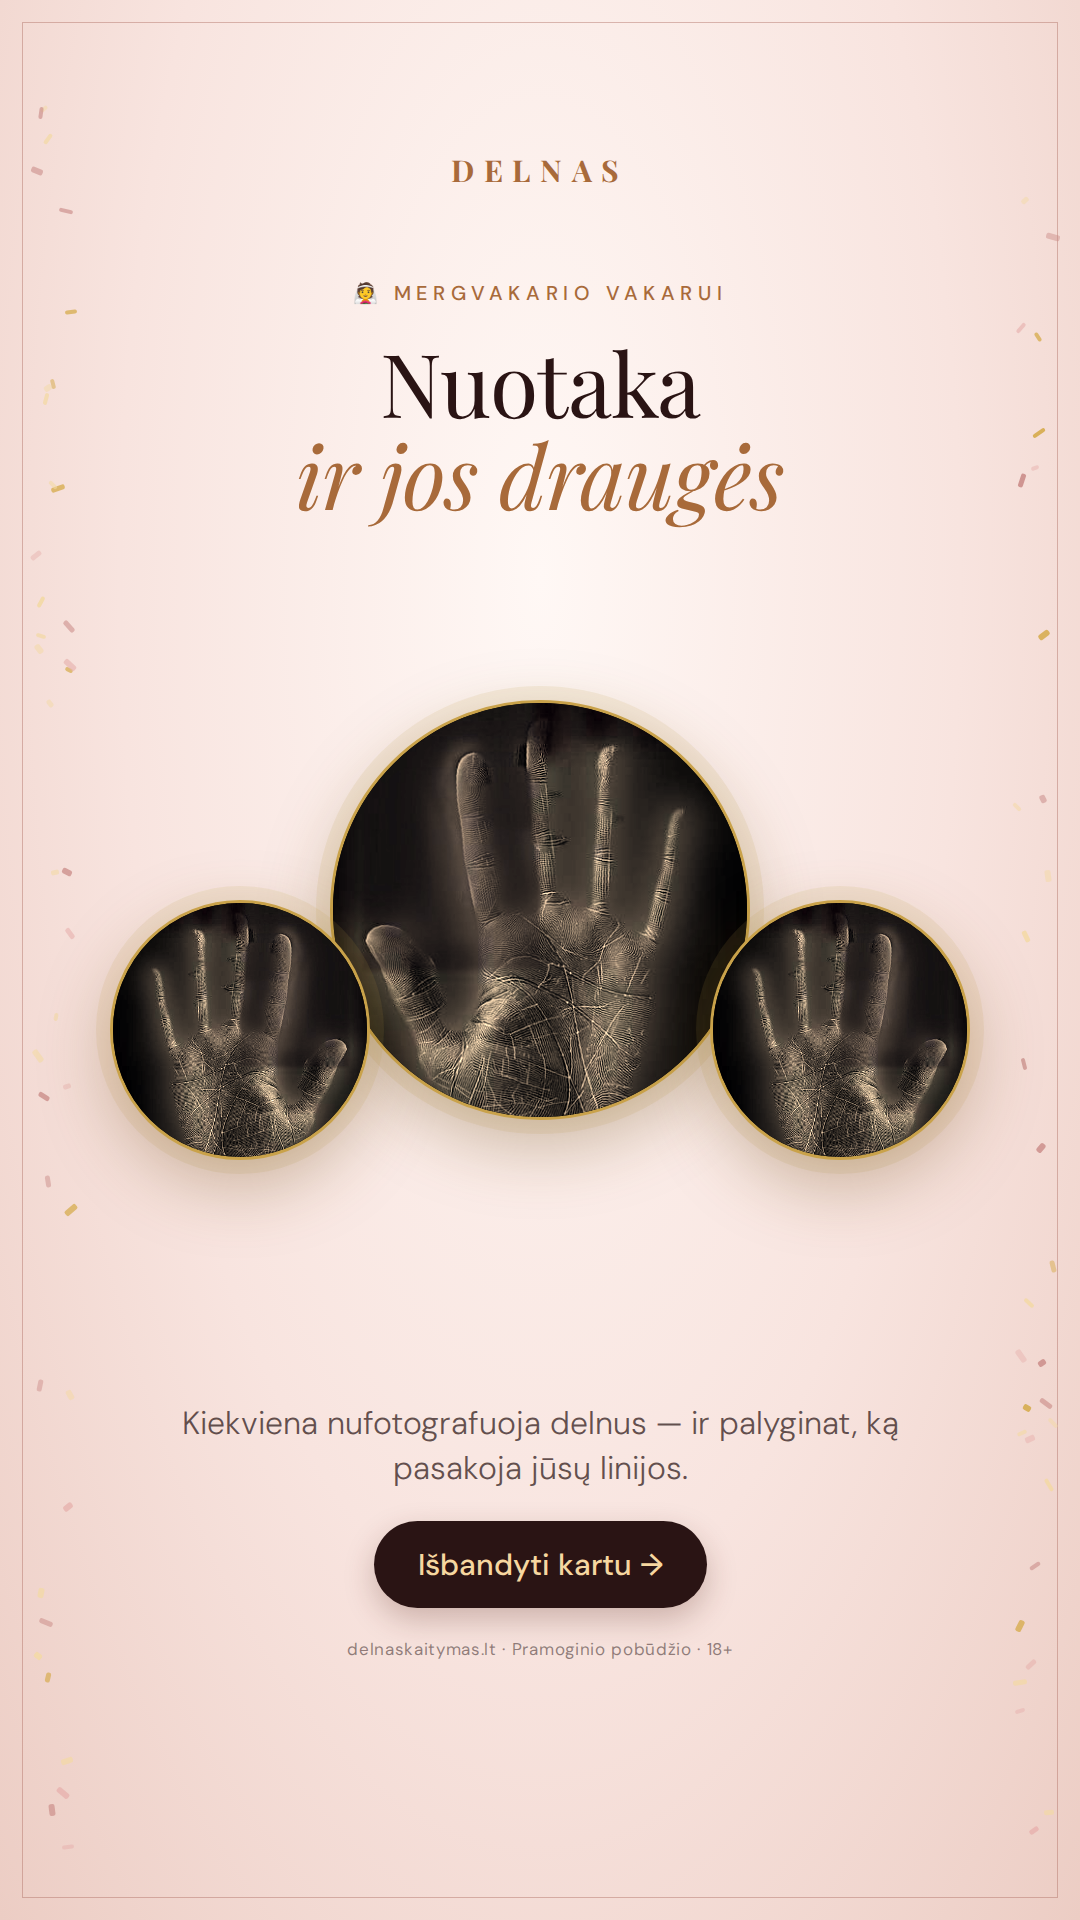
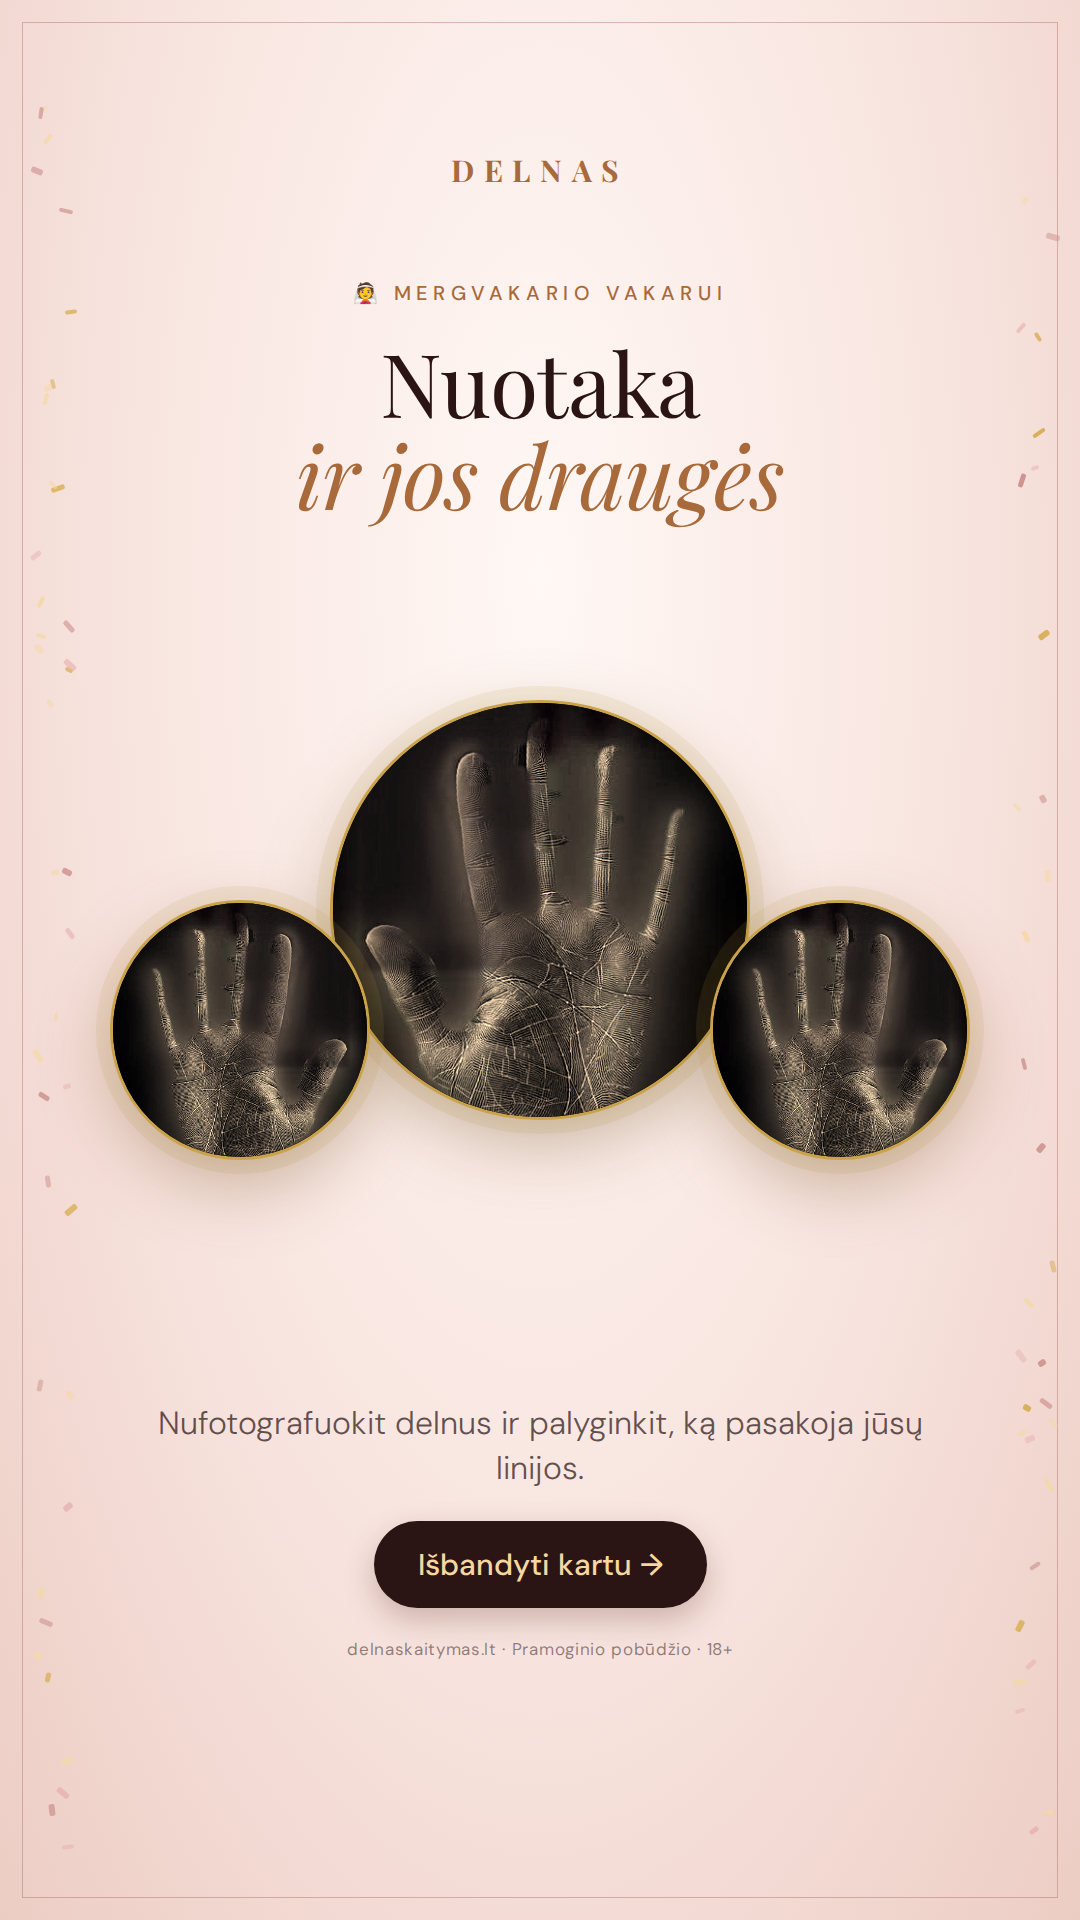
Reklamos: gramatikos pataisymai (drauges, asmenų derinimas)
Claude-Session: https://claude.ai/code/session_01SAS6jcXVwrehsNMXyhjzXP

Changed region(s): [[0.1528, 0.7188, 0.8556, 0.7812]]

diff --git a/reklamos/reklamos.html b/reklamos/reklamos.html
@@ -814,7 +814,7 @@
   <div class="medal" style="width:360px;height:360px;left:360px;top:860px"><i style="transform:scaleX(-1)"></i></div>
   <div class="medal" style="width:360px;height:360px;left:600px;top:740px"><i></i></div>
   <div style="margin-top:auto;display:flex;flex-direction:column;gap:30px;align-items:center">
-    <p class="sub" style="max-width:840px">Visi nufotografuoja delnus — ir skaitot savo žemėlapius kartu.</p>
+    <p class="sub" style="max-width:840px">Nufotografuokit delnus ir skaitykit savo žemėlapius kartu.</p>
     <div class="cta" style="align-self:center">Išbandyti →</div>
     <div class="fine">delnaskaitymas.lt · Pramoginio pobūdžio · 18+</div>
   </div>
@@ -868,7 +868,7 @@
   <div style="margin-top:140px;max-width:460px;display:flex;flex-direction:column;gap:28px">
     <div class="eyebrow">👰 Mergvakariui</div>
     <h1 style="font-size:76px">Pramoga,<br><em>kurios dar<br>nebandėt</em></h1>
-    <p class="sub" style="font-size:29px">Ką apie nuotaką ir jos draugės pasakoja delnų linijos?</p>
+    <p class="sub" style="font-size:29px">Ką apie nuotaką ir jos drauges pasakoja delnų linijos?</p>
   </div>
   <div class="row" style="margin-top:auto">
     <div class="cta">Išbandyti →</div>
@@ -889,7 +889,7 @@
   <div class="medal" style="width:260px;height:260px;left:110px;top:900px;border-color:#c9a24a"><i style="transform:scaleX(-1)"></i></div>
   <div class="medal" style="width:260px;height:260px;left:710px;top:900px;border-color:#c9a24a"><i style="transform:scaleX(-1)"></i></div>
   <div style="margin-top:auto;display:flex;flex-direction:column;gap:30px;align-items:center">
-    <p class="sub" style="max-width:840px">Kiekviena nufotografuoja delnus — ir palyginat, ką pasakoja jūsų linijos.</p>
+    <p class="sub" style="max-width:840px">Nufotografuokit delnus ir palyginkit, ką pasakoja jūsų linijos.</p>
     <div class="cta" style="align-self:center">Išbandyti kartu →</div>
     <div class="fine">delnaskaitymas.lt · Pramoginio pobūdžio · 18+</div>
   </div>

diff --git a/reklamos/TEKSTAI.md b/reklamos/TEKSTAI.md
@@ -344,11 +344,11 @@ Kalėdinį video generuoti: `node reklamos/video-render.js video3.html delnas-re
 
 **V — vakarėlis / staigmena (32–34)**
 > Ieškai idėjos vakarėliui? 🎉
-> Kiekviena nufotografuoja savo delnus — ir skaitot žemėlapius kartu. Juoko, nuostabos ir netikėtų atradimų garantuota ✨
+> Kiekviena nufotografuoja savo delnus, o tada skaitot žemėlapius kartu. Juoko, nuostabos ir netikėtų atradimų garantuota ✨
 
 **W — mergvakaris (35, 36)**
 > Mergvakario pramoga, kurios dar nebandėt 👰✨
-> Nuotaka ir jos draugės nufotografuoja delnus — ir palyginat, ką pasakoja jūsų linijos. Užtenka telefono.
+> Nuotaka ir jos draugės nufotografuoja delnus ir palygina, ką pasakoja jų linijos. Užtenka telefono.
 
 **X — Valentino poroms (37, 38)**
 > Ką apie meilę pasakoja jūsų delnai? ♥
